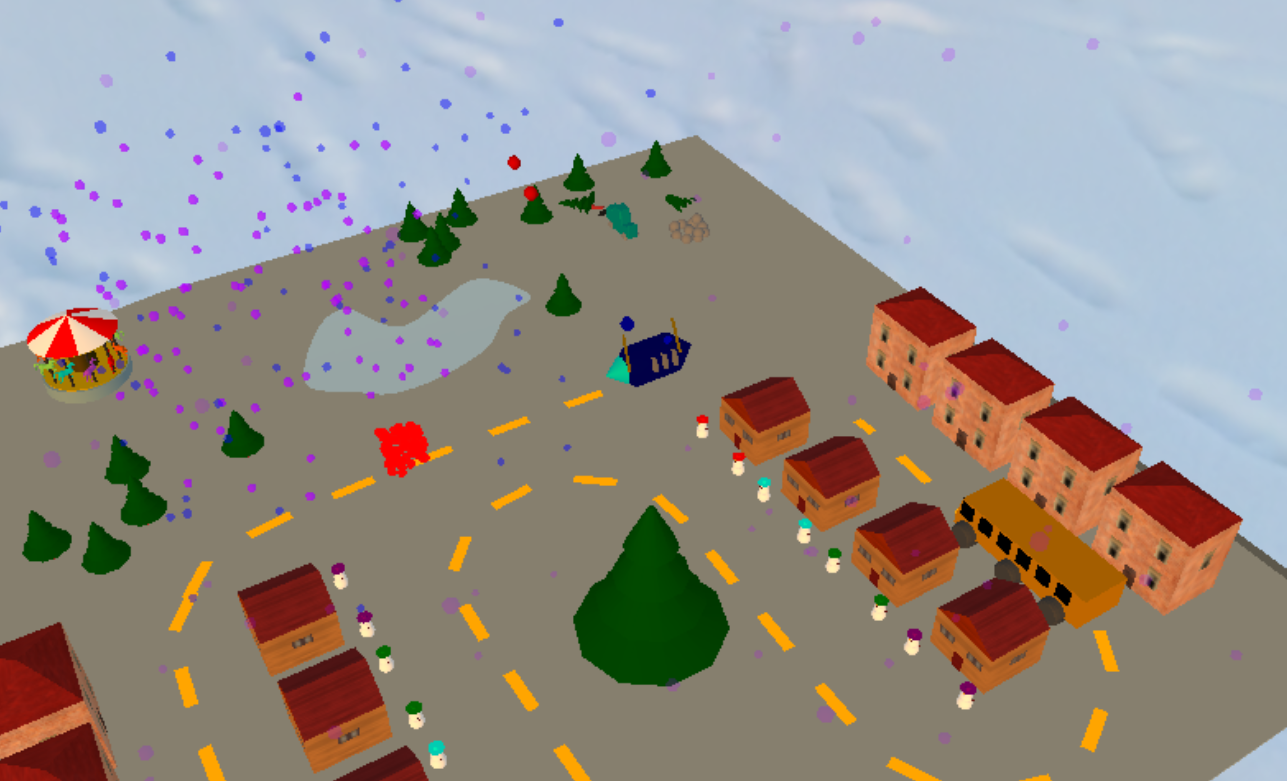
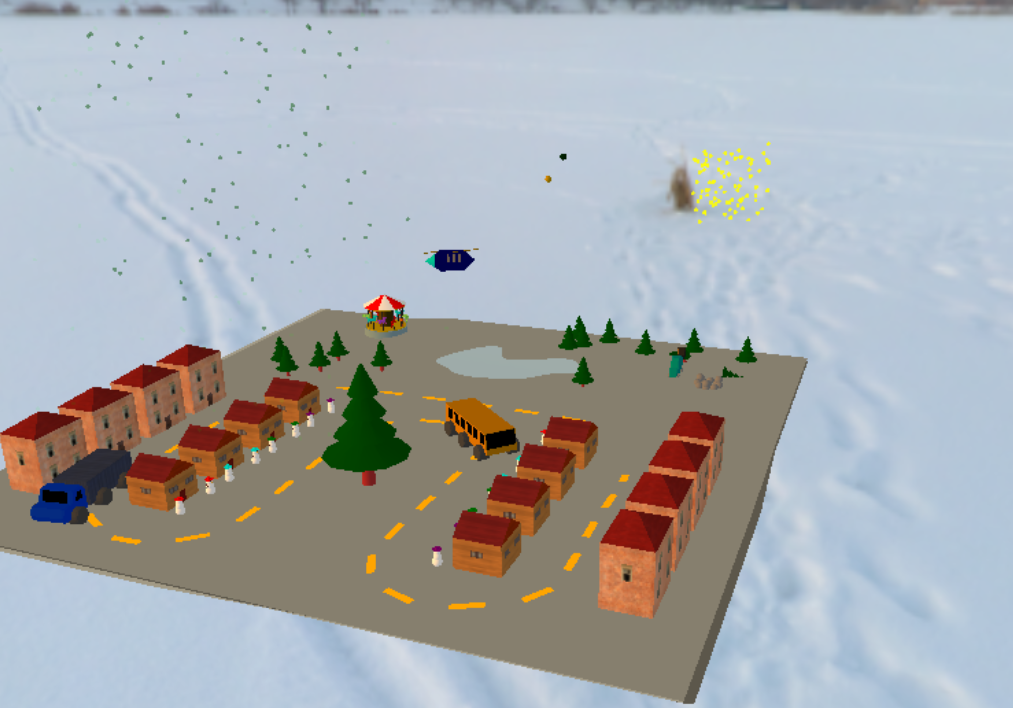
Fine tune

diff --git a/myLib/firework.js b/myLib/firework.js
@@ -52,14 +52,14 @@ export class FireWorkShooter extends GrObject {
         // const GRAVITY_ACC = 0;
         const GRAVITY_ACC = 0.1;
         // shoot a ball every xxx second
-        const SHOOTING_PERIOD = 1;
+        const SHOOTING_PERIOD = 0.8;
 
         // Balls
         const BALL_RADIUS = 4;
         // // the color of the stroke of the balls
         // const STROKE_COL = "#FFFFFF";
         // color list for ball before explosion
-        const LIST_COL_CIRCLE = ["#00cc00", "#0000FF", "#FF0000", "#6600ff"];
+        const LIST_COL_CIRCLE = ["#00cc00", "#0000FF", "#ffcc00", "#FF0000", "#6600ff", "#003300"];
         // color list for exploded particles
         const LIST_COL_PARTICLE = LIST_COL_CIRCLE;
         // const LIST_COL_PARTICLE = ["#99FF99", "#9999FF", "#FF9999", "#d1b3ff"];
